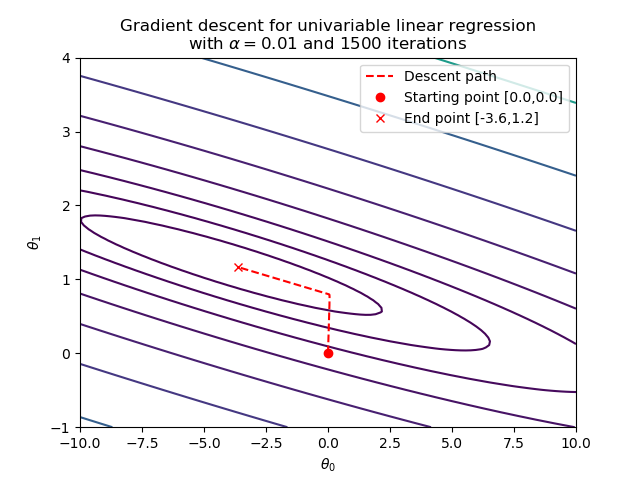
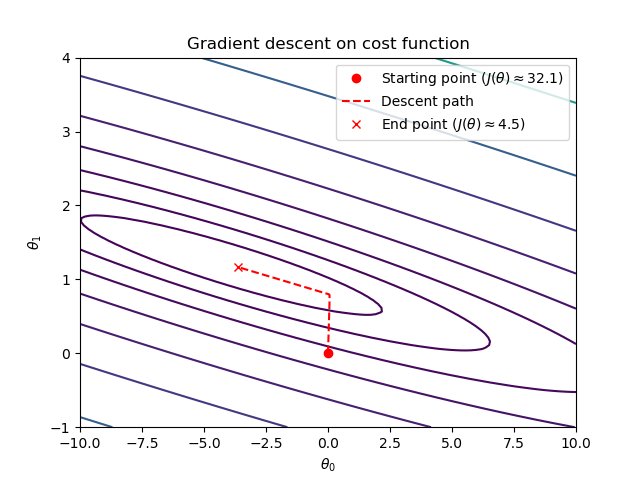
ex1: More accurate plot descriptions

Changed region(s): [[0.1875, 0.0312, 0.875, 0.3125]]

diff --git a/ex1/ex1.py b/ex1/ex1.py
@@ -4,15 +4,14 @@
 Machine Learning Online Class - Exercise 1: Linear Regression
 """
 
-import numpy as np
 import csv
-import matplotlib.pyplot as plt
-from numpy import dot
-from numpy.linalg import pinv
 
+import numpy as np
+from numpy import array, dot, zeros, ones
+from numpy.linalg import pinv
+import matplotlib.pyplot as plt
+import matplotlib.cm
 from mpl_toolkits.mplot3d import Axes3D
-from matplotlib import cm
-from matplotlib.ticker import LinearLocator, FormatStrFormatter
 
 def load_data(filename):
     data = list()
@@ -20,21 +19,21 @@ def load_data(filename):
         reader = csv.reader(f, quoting=csv.QUOTE_NONNUMERIC)
         for row in reader:
             data.append(row)
-    data = np.array(data)
+    data = array(data)
     return data[:,:-1], data[:,-1]
 
 def plotData(X, y, theta=None):
     plt.plot(X, y, 'd', markersize=8, markerfacecolor="lightblue",
-            label="Training data")
+             label="Training data")
     plt.xlabel("Population of city, 10,000s")
     plt.ylabel("Profit, $10,000s")
-    plt.title("Training data")
-    if not theta is None:
-        plt.plot(X, np.dot(add_intercept_column(X), theta).flatten(),
-                 label="Linear regression")
+    plt.title("Linear regression: training data")
+    if theta is not None:
+        plt.plot(X, dot(add_intercept_column(X), theta).flatten(),
+                 label="Linear model")
         plt.legend()
-        plt.title("Training data and computed linear regression\n"
-                  "with parameters $\\theta \\approx [{0[0]:.1f},{0[1]:.1f}]$"
+        plt.title("Training data and estimated linear regression model\n"
+                  "with parameter $\\theta \\approx [{0[0]:.1f},{0[1]:.1f}]$"
                   .format(theta.flatten()))
 
 def add_intercept_column(X):
@@ -42,13 +41,13 @@ def add_intercept_column(X):
     Adds vertical vector of ones as the first column to matrix X to account
     for intercept term theta_0.
     """
-    return np.hstack([np.ones((X.shape[0],1)), X])
-            
+    return np.hstack([ones((X.shape[0], 1)), X])
+
 def computeCost(X, y, theta):
     """X should already have an intercept column"""
     m = y.shape[0]
-    J = np.dot(X, theta) - y
-    J = np.dot(J.T, J)
+    J = dot(X, theta) - y
+    J = dot(J.T, J)
     J = J / (2*m)
     return J[0][0]
 
@@ -56,11 +55,11 @@ def gradientDescent(X, y, theta, alpha, iterations):
     """y should be vertical vector"""
     m = len(y)
     J_history = np.empty(iterations+1)
-    descent_path = np.empty((iterations+1,theta.shape[0]))
+    descent_path = np.empty((iterations+1, theta.shape[0]))
     for i in range(iterations):
         descent_path[i] = theta.flatten()
         J_history[i] = computeCost(X, y, theta)
-        theta = theta - alpha / m * np.dot(np.dot(X, theta).T - y.T, X).T
+        theta = theta - alpha / m * dot(dot(X, theta).T - y.T, X).T
     descent_path[-1] = theta.flatten()
     J_history[-1] = computeCost(X, y, theta)
     return theta, J_history, descent_path
@@ -69,8 +68,8 @@ def featureNormalize(X):
     """X doesn't have intercept column"""
     m = X.shape[0]
     n = X.shape[1]
-    mu = np.zeros(n)
-    sigma = np.ones(n)
+    mu = zeros(n)
+    sigma = ones(n)
     #X_norm = np.empty((m,n))
     for i in range(n):
         mu[i] = X[:,i].mean()
@@ -81,16 +80,16 @@ def featureNormalize(X):
 
 def predict(x, theta, mu=None, sigma=None):
     if mu is None:
-        mu = np.zeros(len(x))
+        mu = zeros(len(x))
     if sigma is None:
-        sigma = np.ones(len(x))
-    return np.dot(add_intercept_column(((x-mu)/sigma).reshape(1, -1)),
-                  theta)[0,0]
+        sigma = ones(len(x))
+    return dot(add_intercept_column(((x-mu) / sigma).reshape(1,-1)), theta)[0,0]
 
 def normalEqn(X, y):
-    return np.dot(np.dot(pinv(np.dot(X.T, X)), X.T), y)
+    return dot(dot(pinv(dot(X.T, X)), X.T), y)
 
 if __name__ == "__main__":
+
     print("Exercise 1: linear regression.")
     print("==============================")
     print()
@@ -111,7 +110,7 @@ if __name__ == "__main__":
 
     plotData(X1, y1)
     #plt.show()
-    
+
     print("Testing cost function...")
 
     # add intercept column
@@ -119,7 +118,7 @@ if __name__ == "__main__":
     # reshape into a vertical vector
     y1a = y1.reshape(-1,1)
 
-    for theta in [np.zeros((X1a.shape[1],1)), np.array([[-1], [2]])]:
+    for theta in [zeros((X1a.shape[1], 1)), array([[-1], [2]])]:
         # compute cost of theta
         J = computeCost(X1a, y1a, theta)
         print("  for theta = {} the cost J(theta) = {}"
@@ -127,12 +126,12 @@ if __name__ == "__main__":
 
     print("Running gradient descent...")
 
-    theta = np.zeros((X1a.shape[1],1))
+    theta = zeros((X1a.shape[1],1))
     alpha = 0.01
     iterations = 1500
-    # run gradient descent and compute theta
+    # Run gradient descent and compute theta
     theta, J_history, descent_path = \
-            gradientDescent(X1a, y1a, theta, alpha, iterations)
+        gradientDescent(X1a, y1a, theta, alpha, iterations)
 
     assert list(descent_path[-1]) == list(theta.flatten())
     assert J_history[-1] == computeCost(X1a, y1a, theta)
@@ -149,56 +148,52 @@ if __name__ == "__main__":
 
     print("Testing prediction...")
     for population in [3.5, 7]:
-        #prediction = np.dot([[1, population]], theta)[0][0]
+        #prediction = dot([[1, population]], theta)[0][0]
         prediction = predict([population], theta)
-        print("  For population of {:n} we predict a profit of ${}".format(
-            population*10000,
-            prediction*10000))
-    
+        print("  For population of {:n} we predict a profit of ${}"
+              .format(population*10000, prediction*10000))
+
     plt.figure()
     plotData(X1, y1, theta)
 
     print('Visualizing J(theta_0, theta_1)...')
 
-    theta0_vals = np.linspace(-10, 10, 100);
-    theta1_vals = np.linspace(-1, 4, 100);
+    theta0_vals = np.linspace(-10, 10, 100)
+    theta1_vals = np.linspace(-1, 4, 100)
 
-    J_vals = np.zeros((len(theta0_vals),len(theta1_vals)))
-    for i in range(len(theta0_vals)):
-        for j in range(len(theta1_vals)):
-            J_vals[i,j] = computeCost(
-                    X1a,
-                    y1a,
-                    np.array([[theta0_vals[i]], [theta1_vals[j]]]))
+    J_vals = zeros((len(theta0_vals), len(theta1_vals)))
+    for i, theta0 in enumerate(theta0_vals):
+        for j, theta1 in enumerate(theta1_vals):
+            J_vals[i,j] = computeCost(X1a, y1a, array([[theta0], [theta1]]))
     J_vals = J_vals.T
 
     plt.figure()
     th0, th1 = np.meshgrid(theta0_vals, theta1_vals)
     plt.gca(projection="3d")
-    plt.gca().plot_surface(th0, th1, J_vals, cmap=cm.coolwarm)
+    plt.gca().plot_surface(th0, th1, J_vals, cmap=matplotlib.cm.coolwarm)
     plt.gca().plot(descent_path[:,0], descent_path[:,1], J_history, "r--",
                    label="Descent path")
-    plt.gca().plot([descent_path[ 0,0]], [descent_path[ 0,1]], [J_history[ 0]],
-                      color='red', marker='o', label="Starting point")
+    plt.gca().plot([descent_path[0,0]],  [descent_path[0,1]],  [J_history[0]],
+                   color='red', marker='o', label="Starting point")
     plt.gca().plot([descent_path[-1,0]], [descent_path[-1,1]], [J_history[-1]],
-                      color='red', marker='x', label="End point")
+                   color='red', marker='x', label="End point")
     plt.xlabel(r"$\theta_0$")
     plt.ylabel(r"$\theta_1$")
     plt.gca().set_zlabel(r"$J(\theta_0,\theta_1)$")
-    plt.title("Cost function for univariable linear regression\n"
+    plt.title("Mean squared error cost function\n"
               "and computed gradient descent path")
 
     plt.figure()
     plt.contour(theta0_vals, theta1_vals, J_vals, np.logspace(-2, 3, 20))
     plt.plot(descent_path[0,0], descent_path[0,1], "ro",
-             label="Starting point [{:.1f},{:.1f}]".format(
-                 descent_path[0,0], descent_path[0,1]))
-    plt.plot(descent_path[:,0], descent_path[:,1], "r--", label="Descent path")
+             label="Starting point ($J(\\theta) \\approx {:.1f}$)"
+                   .format(J_history[0]))
+    plt.plot(descent_path[:,0], descent_path[:,1],  "r--",
+             label="Descent path")
     plt.plot(descent_path[-1,0], descent_path[-1,1], "rx",
-             label="End point [{:.1f},{:.1f}]".format(
-                 descent_path[-1,0], descent_path[-1,1]))
-    plt.title("Gradient descent for univariable linear regression\n"
-              "with $\\alpha = {}$ and {} iterations".format(alpha, iterations))
+             label="End point ($J(\\theta) \\approx {:.1f}$)"
+                   .format(J_history[-1]))
+    plt.title("Gradient descent on cost function")
     plt.xlabel(r"$\theta_0$")
     plt.ylabel(r"$\theta_1$")
     plt.legend()
@@ -239,26 +234,28 @@ if __name__ == "__main__":
     thetas = dict()
     plt.figure()
     for alpha in alphas:
-        theta = np.zeros((X2a.shape[1],1))
+        theta = zeros((X2a.shape[1],1))
         theta, J_history, descent_path = \
-                gradientDescent(X2a, y2a, theta, alpha, iterations)
+            gradientDescent(X2a, y2a, theta, alpha, iterations)
         thetas[alpha] = theta
         print("  For alpha = {} after {} iteration found theta = {} with cost "
-              "= {}".format(alpha, iterations, list(theta.flatten()), J_history[-1]))
+              "= {}"
+              .format(alpha, iterations, list(theta.flatten()), J_history[-1]))
         plt.plot(range(len(J_history)), J_history, label=alpha)
     plt.xlabel("Number of iterations")
     plt.ylabel("Cost $J(\\theta)$")
-    plt.title("Rate of gradient descent for various values of $\\alpha$\n"
-              "for linear regression")
+    plt.title("Rate of gradient descent for various\n"
+              "values of learning rate parameter $\\alpha$")
     plt.legend(title="Value of $\\alpha$:")
 
     for alpha in [0.01, 1]:
         theta = thetas[alpha]
         print("Theta computed from gradient descent (with alpha = {} and {} "
-              "iterations): {}".format(alpha, iterations, list(theta.flatten())))
+              "iterations): {}"
+              .format(alpha, iterations, list(theta.flatten())))
         print("Predicted price of a 1650 sq-ft, 3 br house (using gradient "
-              "descent with alpha = {} and {} iterations): {}".format(alpha,
-                  iterations, predict([1650, 3], theta, mu, sigma)))
+              "descent with alpha = {} and {} iterations): {}"
+              .format(alpha, iterations, predict([1650, 3], theta, mu, sigma)))
 
     # Now solve with normal equation and compare with the one computed with
     # gradient descent
